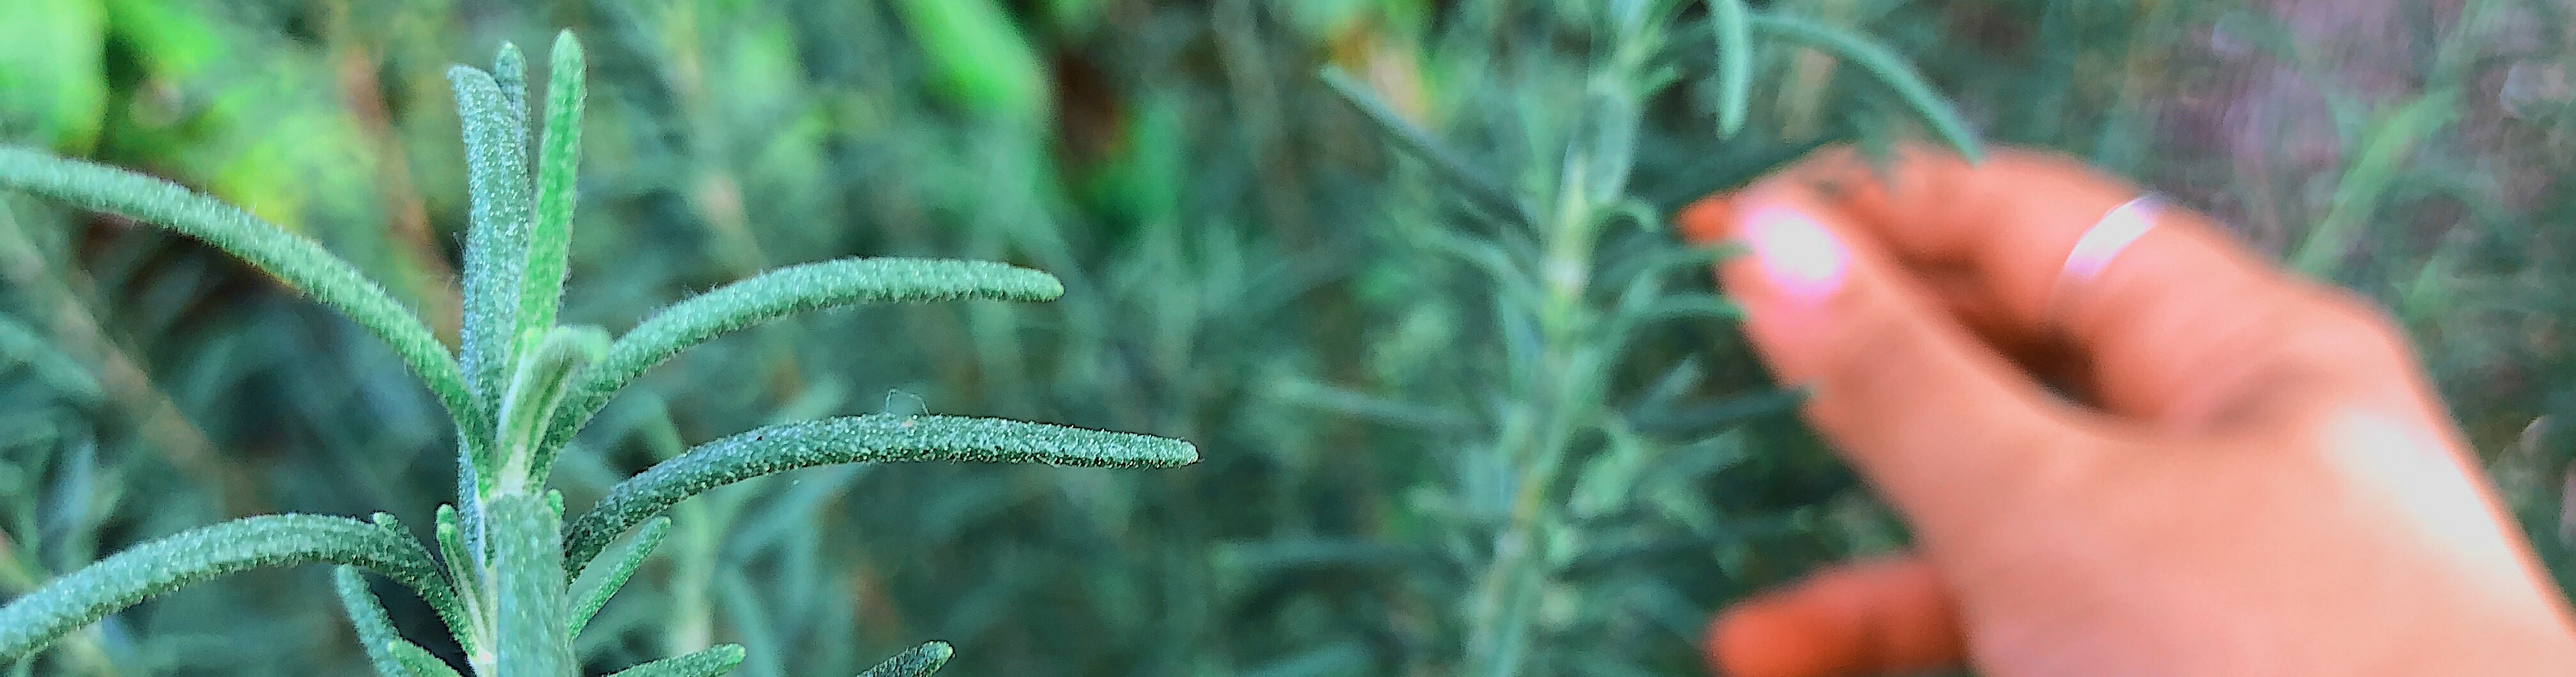
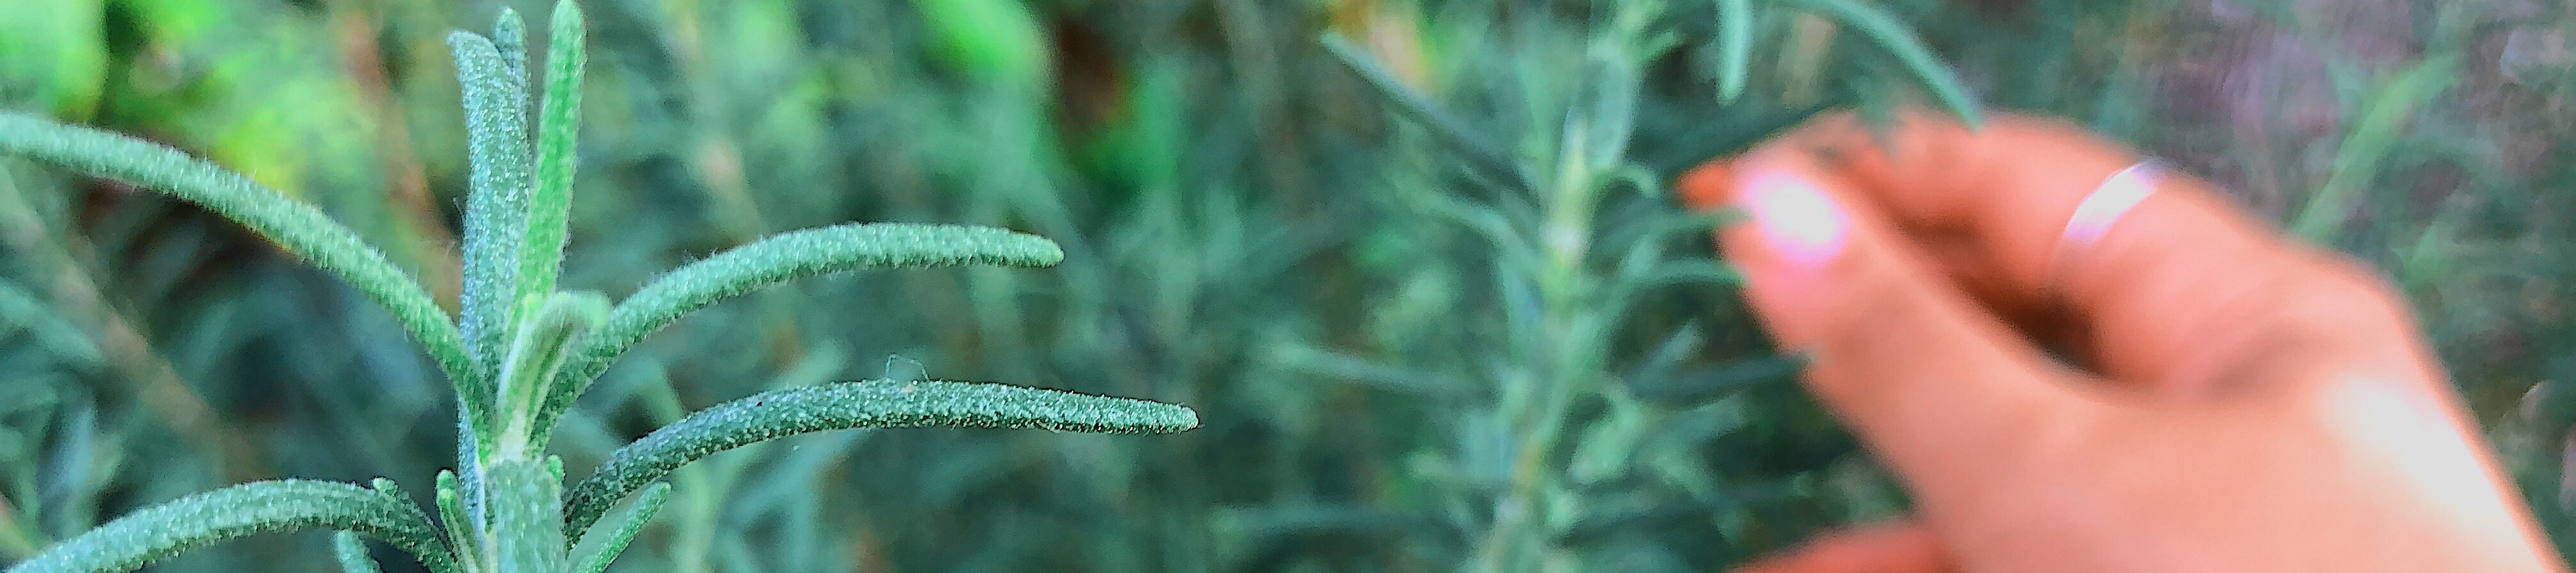
clean

diff --git a/client/src/App.js b/client/src/App.js
@@ -3,7 +3,6 @@ import { Route, Switch, Redirect  } from 'react-router-dom';
 import Home from "./views/Home/Home";
 import Glossary from "./components/Glossary/Glossary"
 import About from "./components/About/About"
-import DidYouKnow from "./components/DidYouKnow/DidYouKnow"
 import Schedule from "./components/Schedule/Schedule"
 import Forum from "./components/Forum/Forum"
 import Footer from "./components/Footer/Footer"
@@ -22,7 +21,6 @@ const App = () => {
         <Route exact path="/Home" component={Home} />
         <Route exact path="/Glossary" component={Glossary} />
         <Route exact path="/About" component={About} />
-        <Route exact path="/DidYouKnow" component={DidYouKnow} />
         <Route exact path="/Forum" component={Forum} />
         <Route exact path="/Schedule" component={Schedule} />
         <Route exact path="/SignIn" component={SignIn} />

diff --git a/client/src/components/Glossary/Glossary.js b/client/src/components/Glossary/Glossary.js
@@ -5,7 +5,7 @@ import React from 'react';
 import AlphabetList from "./glossary_components/AlphabetList";
 //import IntroBar from './intro.png';
 import TermInfo from "./glossary_components/TermInfo";
-import Weebs from './Rosemarys.JPG';
+import Rosemarys from "./Rosemary.JPG";
 
 import './Glossary.css';
 
@@ -14,7 +14,7 @@ const Glossary =()=>{
     return(
         <div>            
             <div className = "container">
-                <img alt = "Plants" src = { Weebs } width = "100%"/>
+                <img alt = "Plants" src = { Rosemarys } width = "100%"/>
                 <div class = "text-block">
                     <div> LET'S TALK ABOUT HERBS! </div>
                 </div>

diff --git a/client/src/index.css b/client/src/index.css
@@ -1,14 +1,23 @@
 @font-face {
-    font-family: ubuntu;
+    font-family: Ubuntu-R;
     src: url(./assets/ubuntu-font-family-0.83/ubuntu-r.ttf);
 }
 
+@font-face {
+    font-family: Ubuntu-C;
+    src: url(./assets/ubuntu-font-family-0.83/Ubuntu-C.ttf);
+}
+
+@font-face {
+    font-family: Ubuntu-Th;
+    src: url(./assets/ubuntu-font-family-0.83/Ubuntu-Th.ttf);
+}
 
 body {
 	margin: 0;
 	padding: 0;
     background: #FFFFFF;
-    font-family: ubuntu;
+    font-family: Ubuntu-R;
     color: #636363;
 }
 header {  /*menu bar maybe?*/

diff --git a/client/src/components/Header/NavBar.js b/client/src/components/Header/NavBar.js
@@ -17,7 +17,6 @@ const NavBar = () => {
             <div className = "nav-items">
                 <Link className = "nav-link" to='/Home'>HOME</Link>
                 <Link className = "nav-link" to='/Forum'>FORUM</Link> 
-                <Link className = "nav-link" to='/DidYouKnow'>DID YOU KNOW</Link>
                 <Link className = "nav-link" to='/Glossary'>GLOSSARY</Link>
                 <Link className = "nav-link" to='/About'>ABOUT</Link>
                 <Link className = "nav-link-last" to='/Schedule'>SCHEDULE</Link>

diff --git a/client/src/components/Glossary/Glossary.css b/client/src/components/Glossary/Glossary.css
@@ -1,8 +1,3 @@
-@font-face {
-    font-family: Ucondensed;
-    src: url(Ubuntu-C.ttf);
-}
-
 .intro-image{
     width: 100%;
 }
@@ -12,7 +7,7 @@
     padding: 2px 20px;
     border: none;
     background-color: rgba(255, 255, 255, 0.212);
-    font-family: UbuntuTh;
+    font-family: Ubuntu-Th;
     text-transform: uppercase;
     text-align: center;
 }
@@ -149,5 +144,5 @@
     text-align: center;
     font-size: 48px;
     width: 100%;
-    font-family: Ucondensed;
+    font-family: Ubuntu-C;
 }

diff --git a/client/src/components/Header/NavBar.css b/client/src/components/Header/NavBar.css
@@ -1,8 +1,3 @@
-@font-face {
-    font-family: UbuntuTh;
-    src: url(Ubuntu-Th.ttf);
-}
-
 .header {
     position: fixed;
     z-index: 99;
@@ -14,7 +9,7 @@
     font-size: 18px;
     padding-top: 5px;
     padding-bottom: 5px;
-    font-family: UbuntuTh;
+    font-family: Ubuntu-Th;
     font-weight: bold;
     color: #363636;
 }
